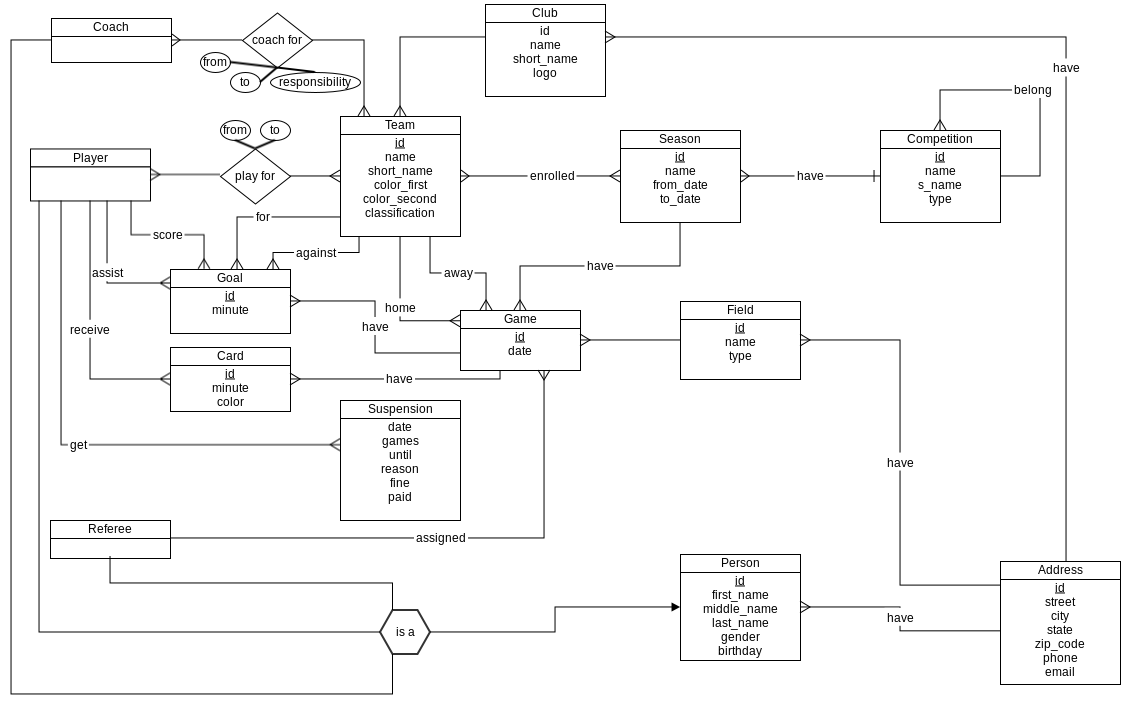
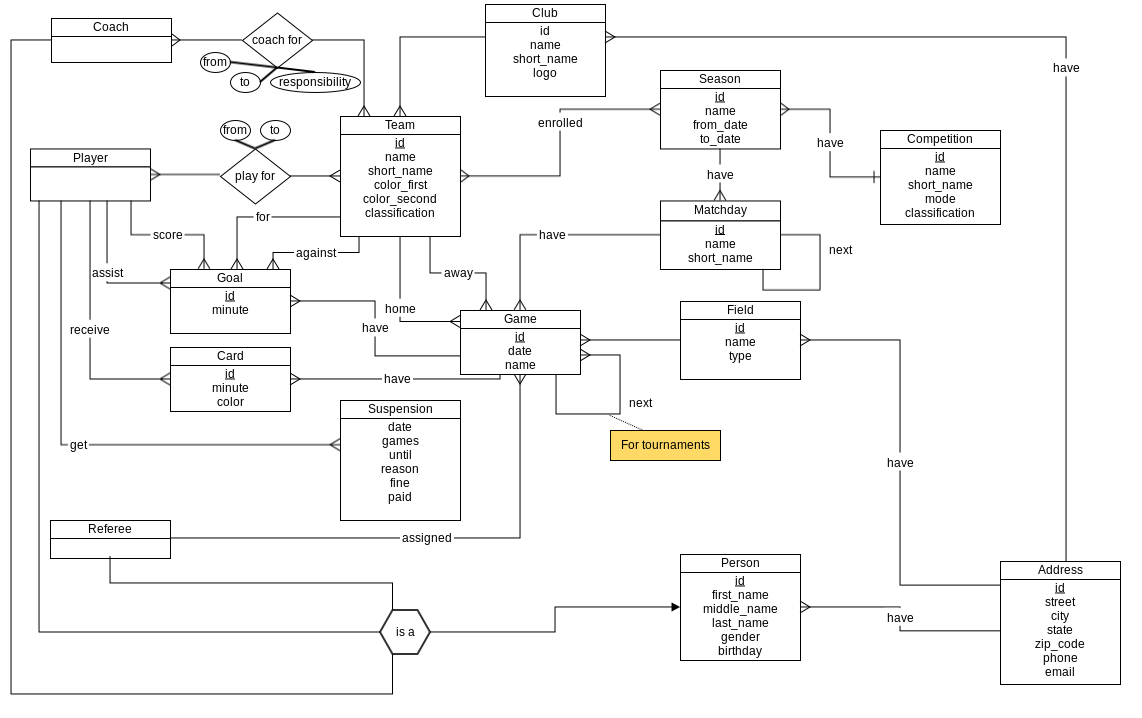
changed models, added matchdays model. Games can have names now (e.g. Semifinal A) and following games for tournaments. Added a classification to competition and removed self reference belongs to since playoffs can be handled either inside the league or can be linked by name.

diff --git a/soccer_island/stats/migrations/0001_initial.py b/soccer_island/stats/migrations/0001_initial.py
@@ -77,8 +77,8 @@ class Migration(migrations.Migration):
                 ('id', models.AutoField(verbose_name='ID', serialize=False, auto_created=True, primary_key=True)),
                 ('name', models.CharField(max_length=50)),
                 ('short_name', models.CharField(max_length=5)),
-                ('competition_type', models.CharField(max_length=1, choices=[(b'L', b'League'), (b'C', b'Cup'), (b'P', b'Playoffs'), (b'R', b'Relegation')])),
-                ('belongs', models.ForeignKey(to='stats.Competition')),
+                ('mode', models.CharField(max_length=1, choices=[(b'L', b'League'), (b'C', b'Cup'), (b'P', b'Playoffs'), (b'R', b'Relegation')])),
+                ('classification', models.CharField(default=b'mopen', max_length=5, choices=[(b'Men', ((b'mopen', b"Men's Open"), (b'mo35', b"Men's 35+"), (b'mo45', b"Men's Masters"))), (b'Women', ((b'women', b"Women's Open"),)), (b'Boys', ((b'bu19', b'Boys U19'), (b'bu16', b'Boys U16'), (b'bu14', b'Boys U14'), (b'bu12', b'Boys U12'))), (b'Girls', ((b'gu19', b'Girls U19'), (b'gu16', b'Girls U16'), (b'gu14', b'Girls U14'), (b'gu12', b'Girls U12')))])),
             ],
             options={
             },
@@ -100,6 +100,7 @@ class Migration(migrations.Migration):
             fields=[
                 ('id', models.AutoField(verbose_name='ID', serialize=False, auto_created=True, primary_key=True)),
                 ('date', models.DateField()),
+                ('name', models.CharField(max_length=50)),
             ],
             options={
             },
@@ -110,6 +111,18 @@ class Migration(migrations.Migration):
             fields=[
                 ('id', models.AutoField(verbose_name='ID', serialize=False, auto_created=True, primary_key=True)),
                 ('minute', models.SmallIntegerField()),
+            ],
+            options={
+            },
+            bases=(models.Model,),
+        ),
+        migrations.CreateModel(
+            name='Matchday',
+            fields=[
+                ('id', models.AutoField(verbose_name='ID', serialize=False, auto_created=True, primary_key=True)),
+                ('name', models.CharField(max_length=50)),
+                ('short_name', models.CharField(max_length=5)),
+                ('next_matchday', models.ForeignKey(blank=True, to='stats.Matchday', null=True)),
             ],
             options={
             },
@@ -230,6 +243,12 @@ class Migration(migrations.Migration):
             preserve_default=True,
         ),
         migrations.AddField(
+            model_name='matchday',
+            name='season',
+            field=models.ForeignKey(to='stats.Season'),
+            preserve_default=True,
+        ),
+        migrations.AddField(
             model_name='goal',
             name='assisted_by',
             field=models.ForeignKey(related_name=b'goal_assisted_by', blank=True, to='stats.Player', null=True),
@@ -279,14 +298,20 @@ class Migration(migrations.Migration):
         ),
         migrations.AddField(
             model_name='game',
-            name='referee',
-            field=models.ForeignKey(to='stats.Referee'),
+            name='matchday',
+            field=models.ForeignKey(to='stats.Matchday'),
             preserve_default=True,
         ),
         migrations.AddField(
             model_name='game',
-            name='season',
-            field=models.ForeignKey(to='stats.Season'),
+            name='next_game',
+            field=models.ForeignKey(blank=True, to='stats.Game', null=True),
+            preserve_default=True,
+        ),
+        migrations.AddField(
+            model_name='game',
+            name='referee',
+            field=models.ForeignKey(to='stats.Referee'),
             preserve_default=True,
         ),
         migrations.AddField(

diff --git a/soccer_island/stats/models.py b/soccer_island/stats/models.py
@@ -1,5 +1,32 @@
 from django.db import models
 
+CLASSIFICATION_CHOICES = (
+    ('Men', (
+            ('mopen', 'Men\'s Open'),
+            ('mo35', 'Men\'s 35+'),
+            ('mo45', 'Men\'s Masters'),
+        ),
+    ),
+    ('Women', (
+            ('women', 'Women\'s Open'),
+        ),
+    ),
+    ('Boys', (
+            ('bu19', 'Boys U19'),
+            ('bu16', 'Boys U16'),
+            ('bu14', 'Boys U14'),
+            ('bu12', 'Boys U12'),
+        ),
+    ),
+    ('Girls', (
+            ('gu19', 'Girls U19'),
+            ('gu16', 'Girls U16'),
+            ('gu14', 'Girls U14'),
+            ('gu12', 'Girls U12'),
+        ),
+    ),
+)
+
 class Address(models.Model):
     street = models.CharField(max_length=100)
     city = models.CharField(max_length=50, default='Honolulu')
@@ -31,32 +58,6 @@ class Team(models.Model):
     short_name = models.CharField(max_length=3)
     color_first = models.CharField(max_length=20)
     color_second = models.CharField(max_length=20)
-    CLASSIFICATION_CHOICES = (
-            ('Men', (
-                    ('mopen', 'Men\'s Open'),
-                    ('mo35', 'Men\'s 35+'),
-                    ('mo45', 'Men\'s Masters'),
-                ),
-            ),
-            ('Women', (
-                    ('women', 'Women\'s Open'),
-                ),
-            ),
-            ('Boys', (
-                    ('bu19', 'Boys U19'),
-                    ('bu16', 'Boys U16'),
-                    ('bu14', 'Boys U14'),
-                    ('bu12', 'Boys U12'),
-                ),
-            ),
-            ('Girls', (
-                    ('gu19', 'Girls U19'),
-                    ('gu16', 'Girls U16'),
-                    ('gu14', 'Girls U14'),
-                    ('gu12', 'Girls U12'),
-                ),
-            ),
-        )
     classification = models.CharField(max_length=5, choices=CLASSIFICATION_CHOICES)
     club = models.ForeignKey(Club, blank=True, null=True)
 
@@ -102,8 +103,8 @@ class Competition(models.Model):
             ('R', 'Relegation'),
         )
     short_name = models.CharField(max_length=5)
-    competition_type = models.CharField(max_length=1, choices=TYPE_CHOICES)
-    belongs = models.ForeignKey("self", blank=True, null=True)
+    mode = models.CharField(max_length=1, choices=TYPE_CHOICES)
+    classification = models.CharField(max_length=5, choices=CLASSIFICATION_CHOICES, default='mopen')
 
 class Season(models.Model):
     name = models.CharField(max_length=50)
@@ -112,13 +113,22 @@ class Season(models.Model):
     of = models.ForeignKey(Competition)
     enrolled = models.ManyToManyField(Team)
 
+class Matchday(models.Model):
+    name = models.CharField(max_length=50)
+    short_name = models.CharField(max_length=5)
+    season = models.ForeignKey(Season)
+    next_matchday = models.ForeignKey("self", blank=True, null=True)
+
 class Game(models.Model):
     date = models.DateField()
     away_team = models.ForeignKey(Team, related_name='game_away_team')
     home_team = models.ForeignKey(Team, related_name='game_home_team')
     referee = models.ForeignKey(Referee)
     field = models.ForeignKey(Field)
-    season = models.ForeignKey(Season)
+    matchday = models.ForeignKey(Matchday)
+    # for tournaments so you can create a tree, and names (e.g. Semifinal A):
+    next_game = models.ForeignKey("self", blank=True, null=True)
+    name = models.CharField(max_length=50)
 
 class Goal(models.Model):
     minute = models.SmallIntegerField()
